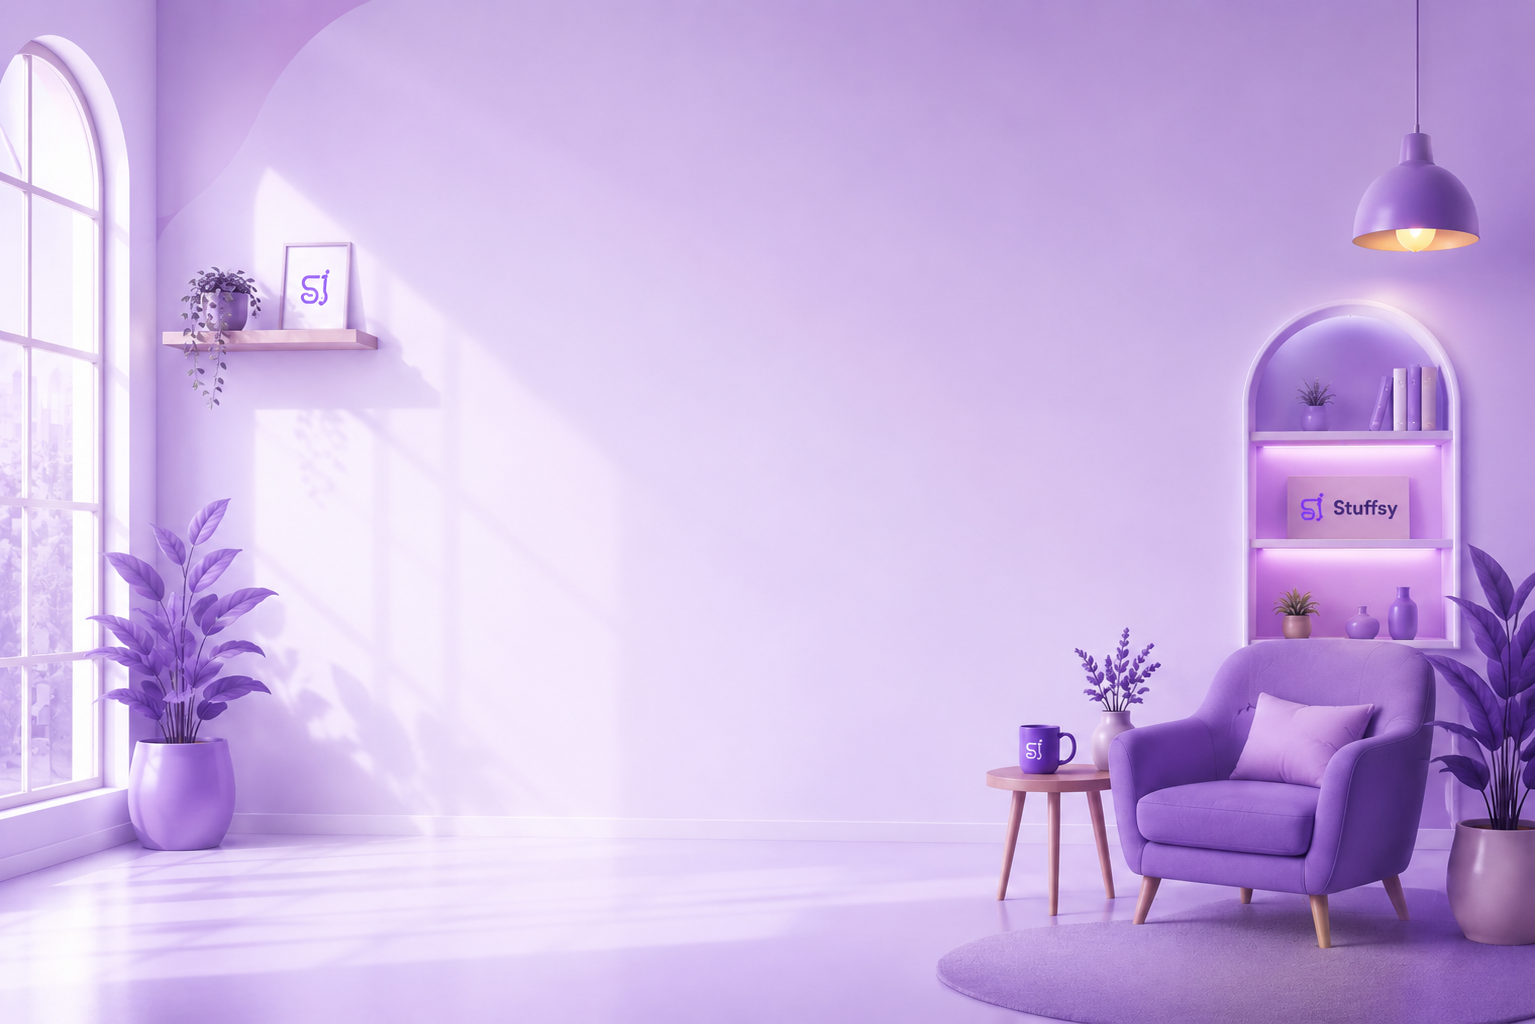
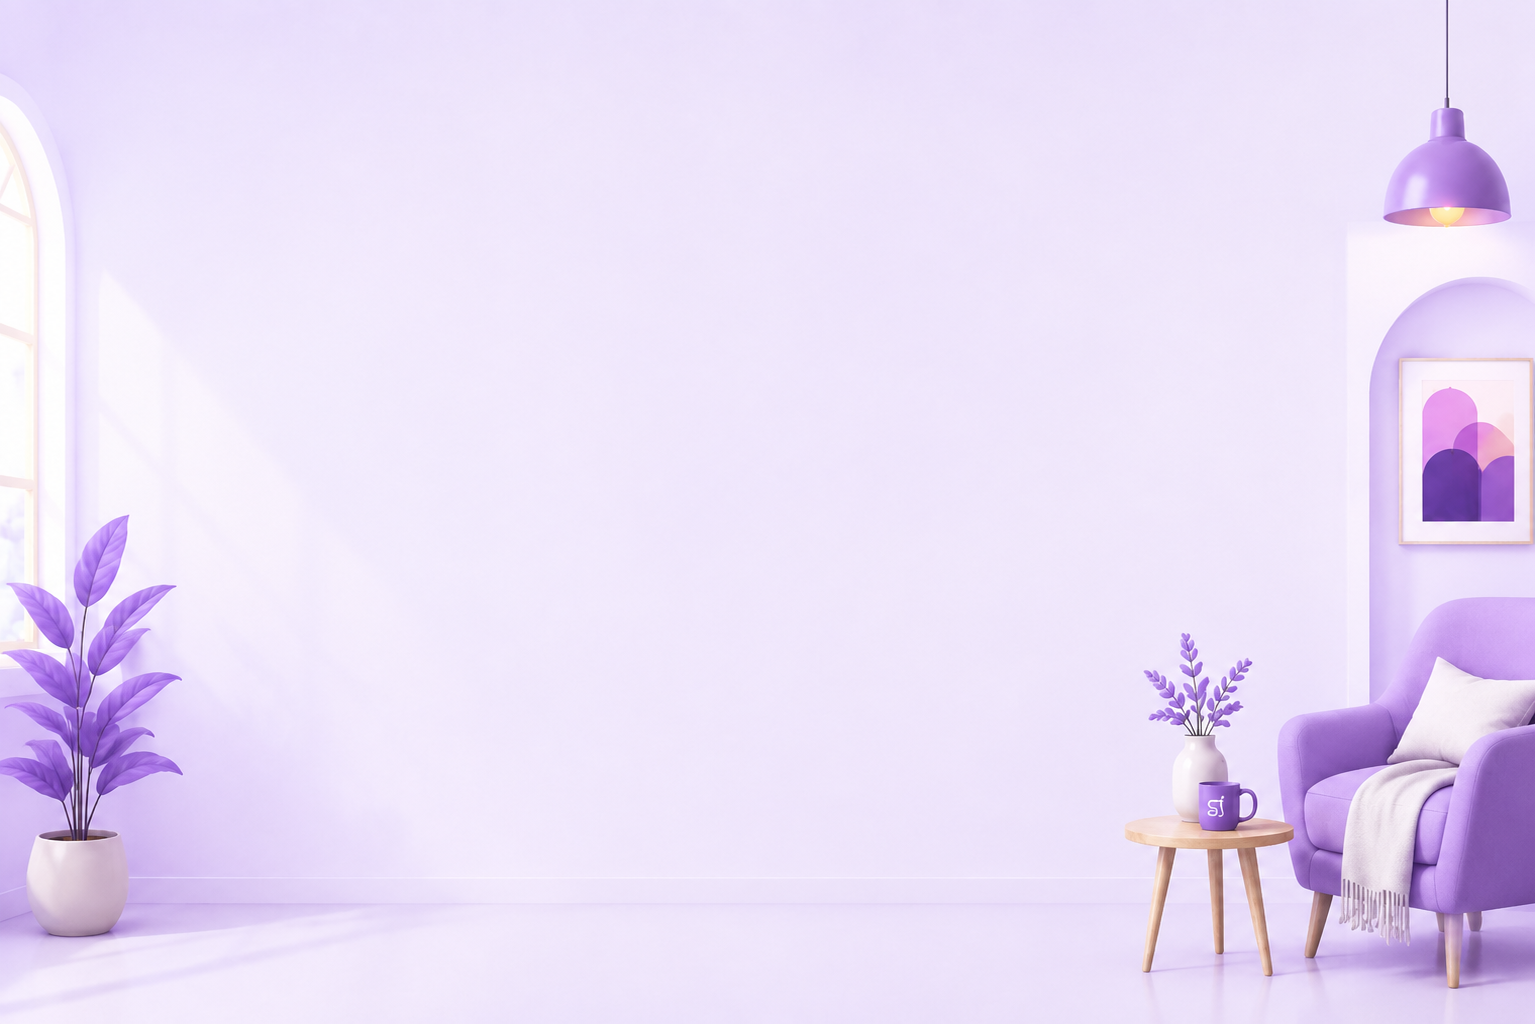
prev_update

diff --git a/src/components/Seller/CreateShopWizard.jsx b/src/components/Seller/CreateShopWizard.jsx
@@ -45,7 +45,7 @@ const valueProps = [
 ];
 
 const STEP1_BG_URL =
-  "https://aoywrazmsjbyqncdmgix.supabase.co/storage/v1/object/sign/Background_images/step1_bg.png?token=eyJraWQiOiJzdG9yYWdlLXVybC1zaWduaW5nLWtleV9iNjlhMzEyZC1iMTQ0LTRlNzctOTkyYy05MmI1NWZjZDYyZGMiLCJhbGciOiJIUzI1NiJ9.eyJ1cmwiOiJCYWNrZ3JvdW5kX2ltYWdlcy9zdGVwMV9iZy5wbmciLCJpYXQiOjE3Nzg2MDk4NjQsImV4cCI6MTgxMDE0NTg2NH0.PPxy7uzAX89xJ4YInUEAobyu3vkx5w3pt0PBOECBzWo";
+  "https://aoywrazmsjbyqncdmgix.supabase.co/storage/v1/object/sign/Background_images/step1_bg.png?token=eyJraWQiOiJzdG9yYWdlLXVybC1zaWduaW5nLWtleV9iNjlhMzEyZC1iMTQ0LTRlNzctOTkyYy05MmI1NWZjZDYyZGMiLCJhbGciOiJIUzI1NiJ9.eyJ1cmwiOiJCYWNrZ3JvdW5kX2ltYWdlcy9zdGVwMV9iZy5wbmciLCJpYXQiOjE3Nzg2MTEzNDAsImV4cCI6MTgxMDE0NzM0MH0.QoJF-w9gZxR1e7OVf4fBnd6Ajd-hBiWeZIhDObR5k1M";
 
 const createSlug = (value) =>
   value
